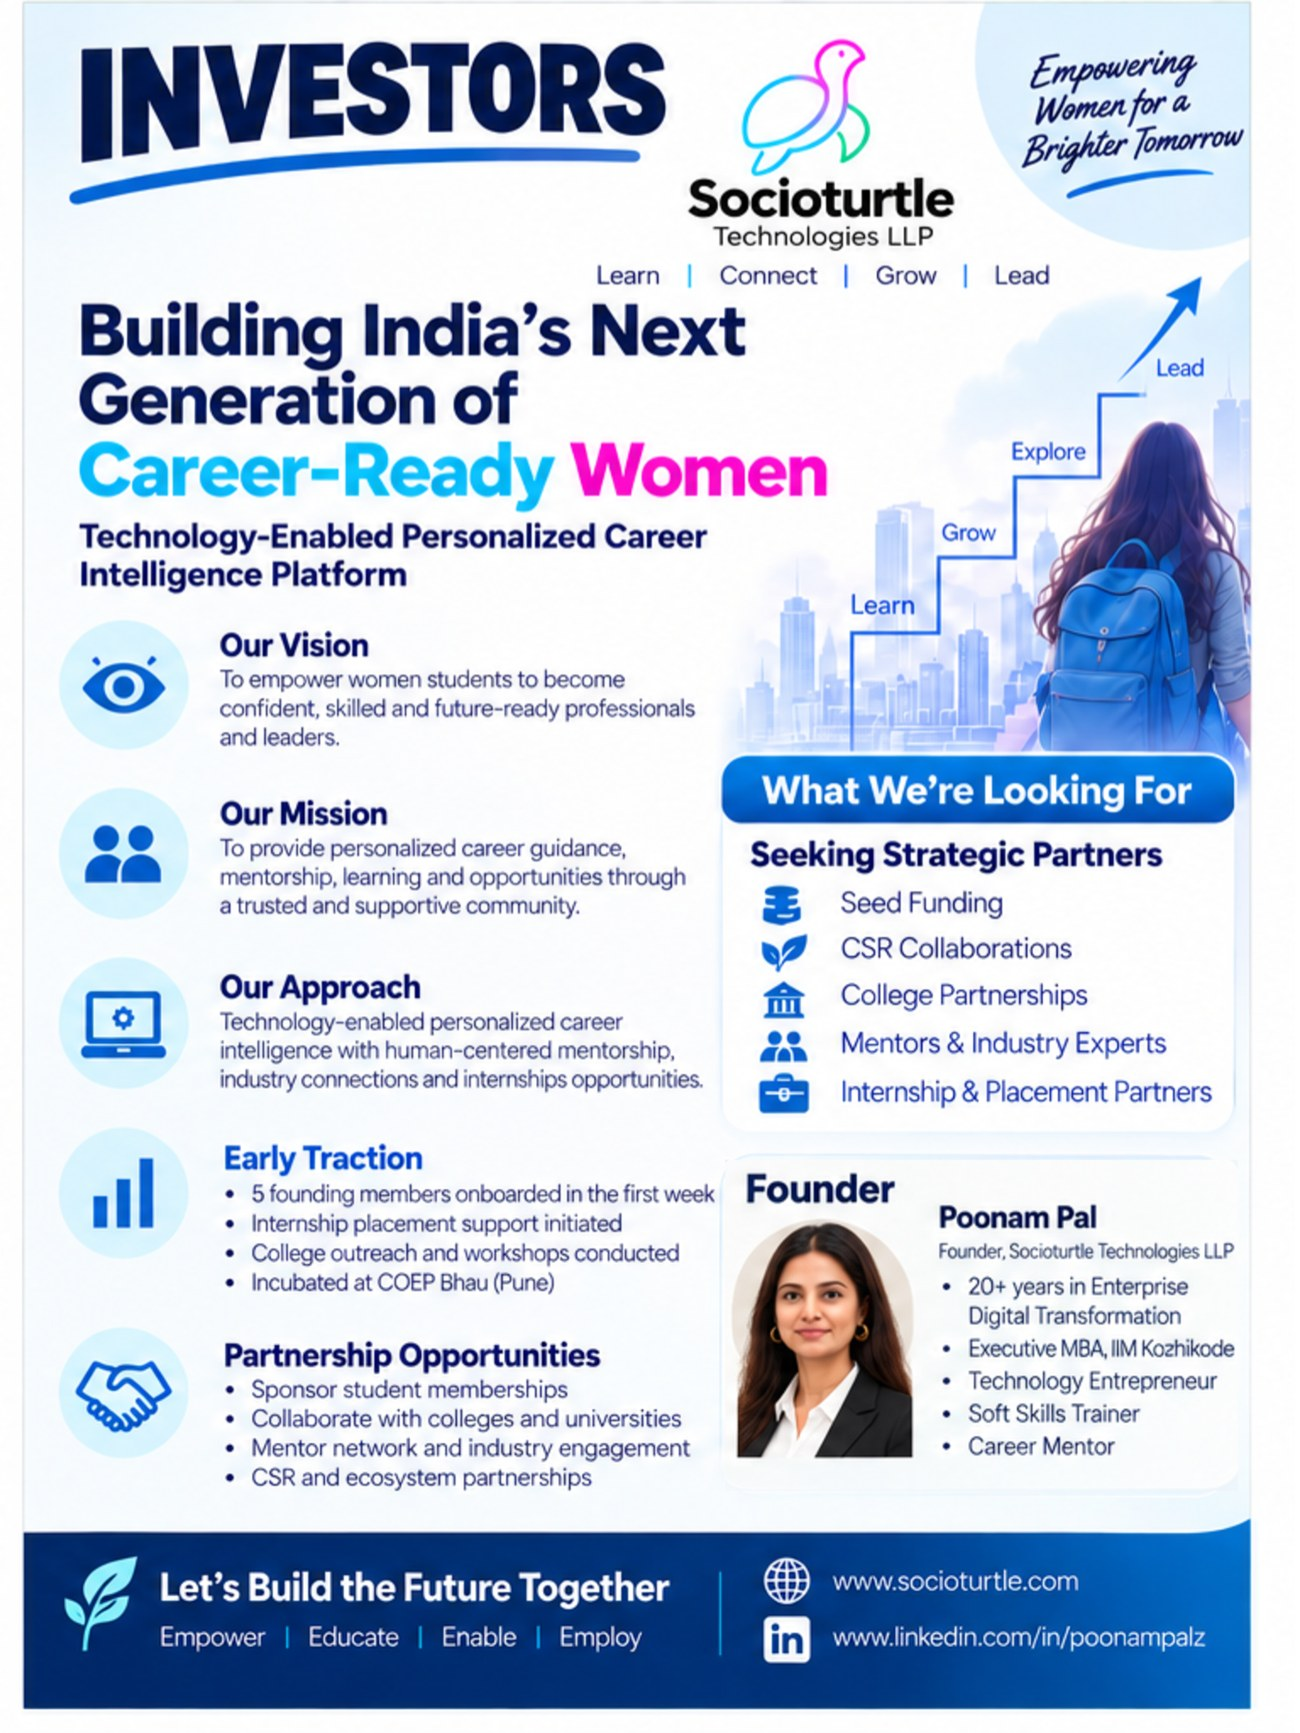
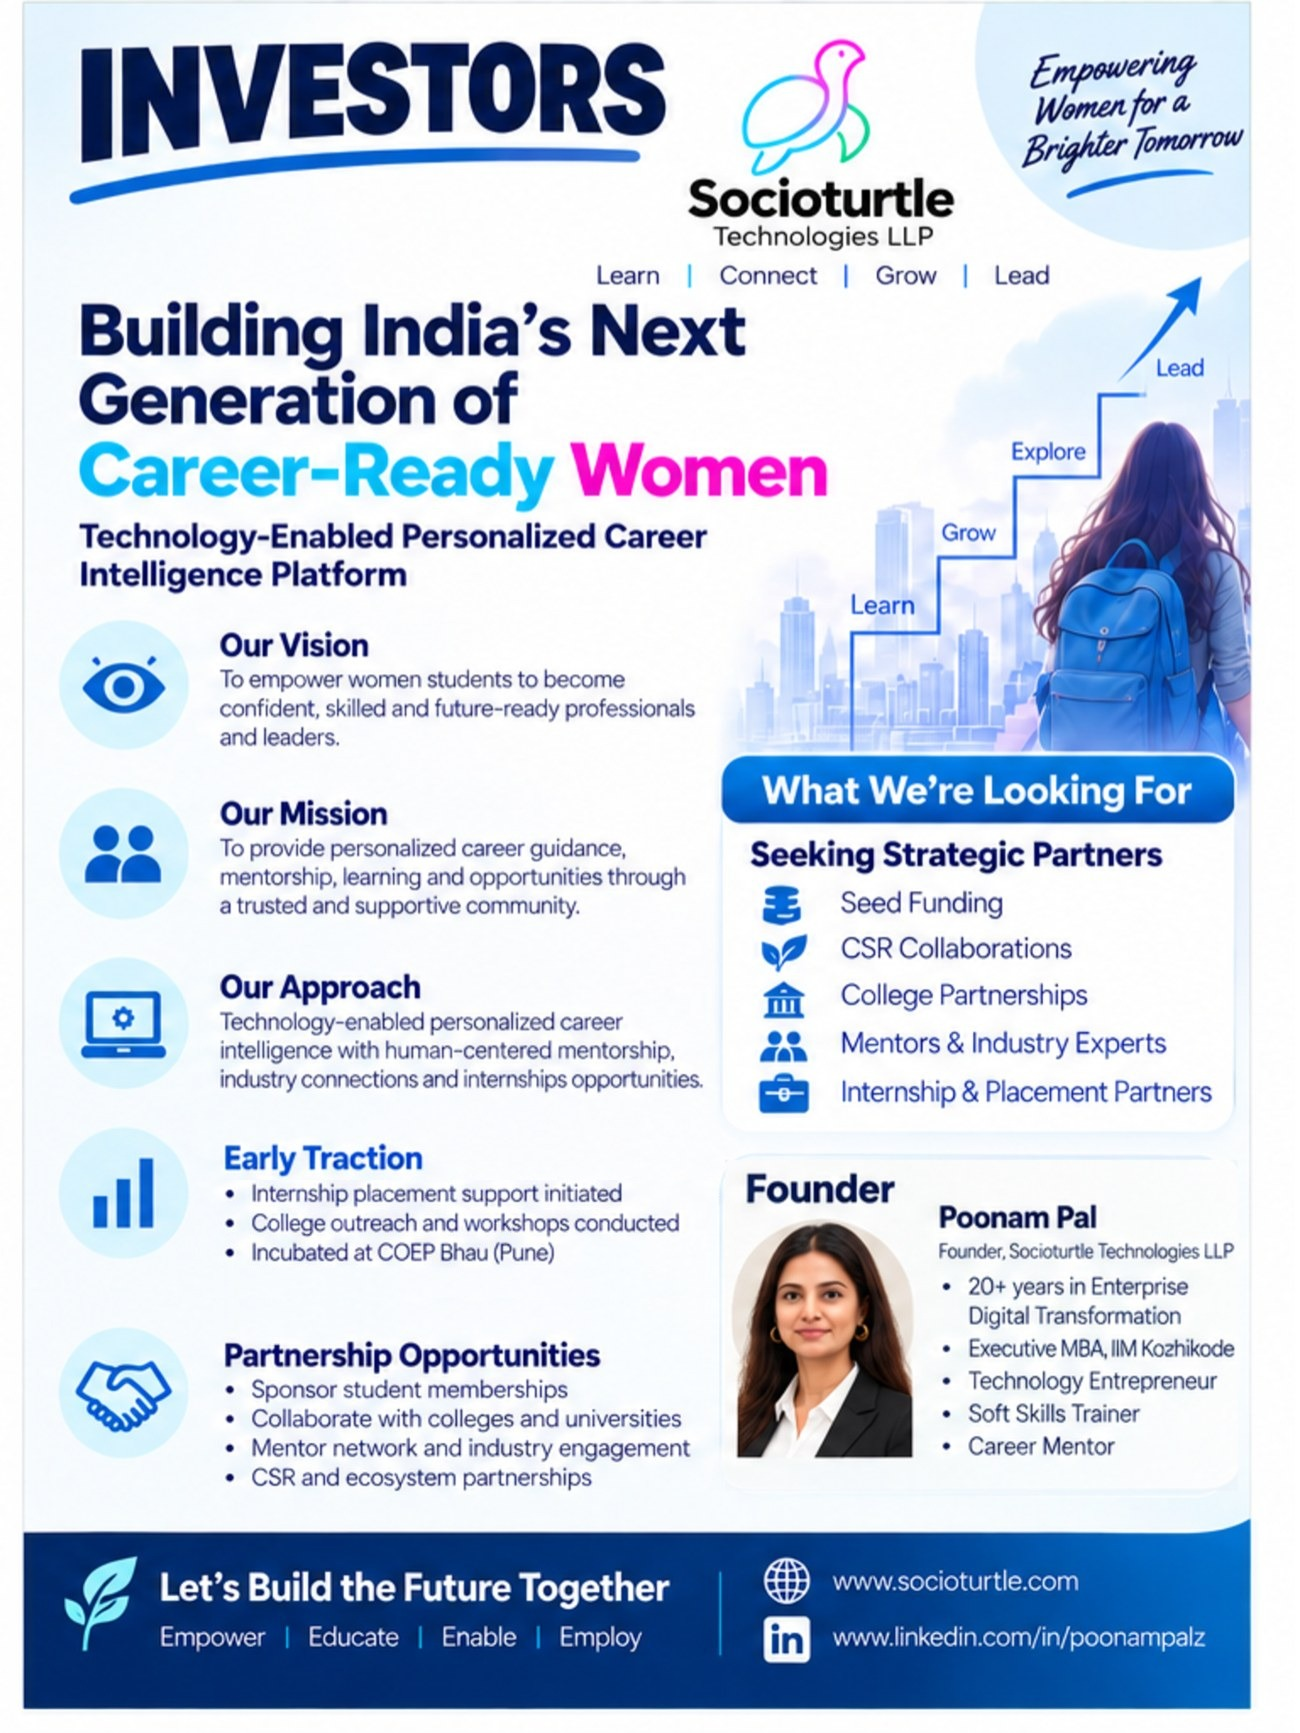
Remove confidential traction numbers from investors page and flyer
Drop the founding member count and revenue figures from the Investors
page, and remove the founding member count line from the investor flyer.

Changed region(s): [[0.1846, 0.6855, 0.5538, 0.7478]]

diff --git a/investors.html b/investors.html
@@ -101,18 +101,7 @@
               decoding="async">
             <div>
               <h3 class="font-semibold text-lg mb-3">Early Traction</h3>
-              <div class="grid grid-cols-2 gap-3 mb-4">
-                <div class="bg-gray-50 border border-gray-100 rounded-lg p-4 text-center">
-                  <p class="text-2xl font-bold text-primary">8</p>
-                  <p class="text-xs text-gray-600">Founding members, week 1</p>
-                </div>
-                <div class="bg-gray-50 border border-gray-100 rounded-lg p-4 text-center">
-                  <p class="text-2xl font-bold text-primary">&#8377;3,192</p>
-                  <p class="text-xs text-gray-600">Revenue, zero CAC</p>
-                </div>
-              </div>
               <ul class="space-y-2 mb-6 text-sm text-gray-700">
-                <li class="flex items-start gap-2"><i class="fas fa-circle-check text-primary mt-1"></i> 8 founding members enrolled organically in the first week &mdash; no paid marketing, ad spend, or fixed cost</li>
                 <li class="flex items-start gap-2"><i class="fas fa-circle-check text-primary mt-1"></i> Internship placement support initiated</li>
                 <li class="flex items-start gap-2"><i class="fas fa-circle-check text-primary mt-1"></i> College outreach and workshops conducted</li>
                 <li class="flex items-start gap-2"><i class="fas fa-circle-check text-primary mt-1"></i> Incubated at COEP BHAU Institute, Pune</li>
